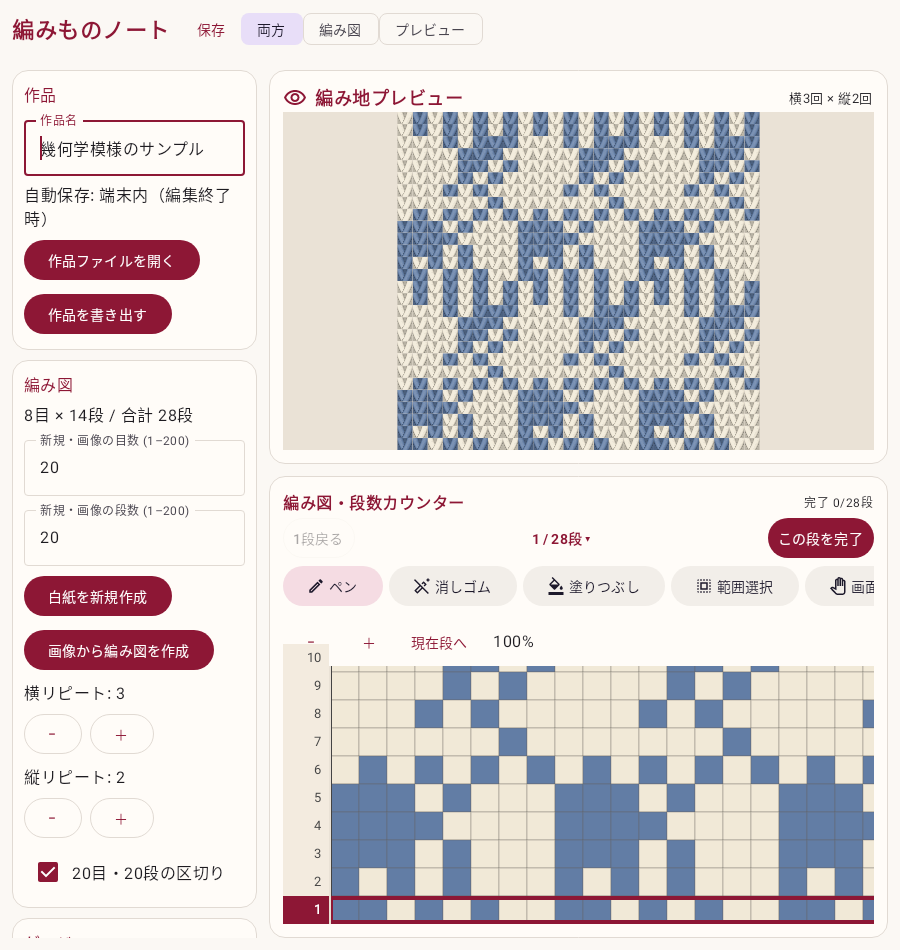
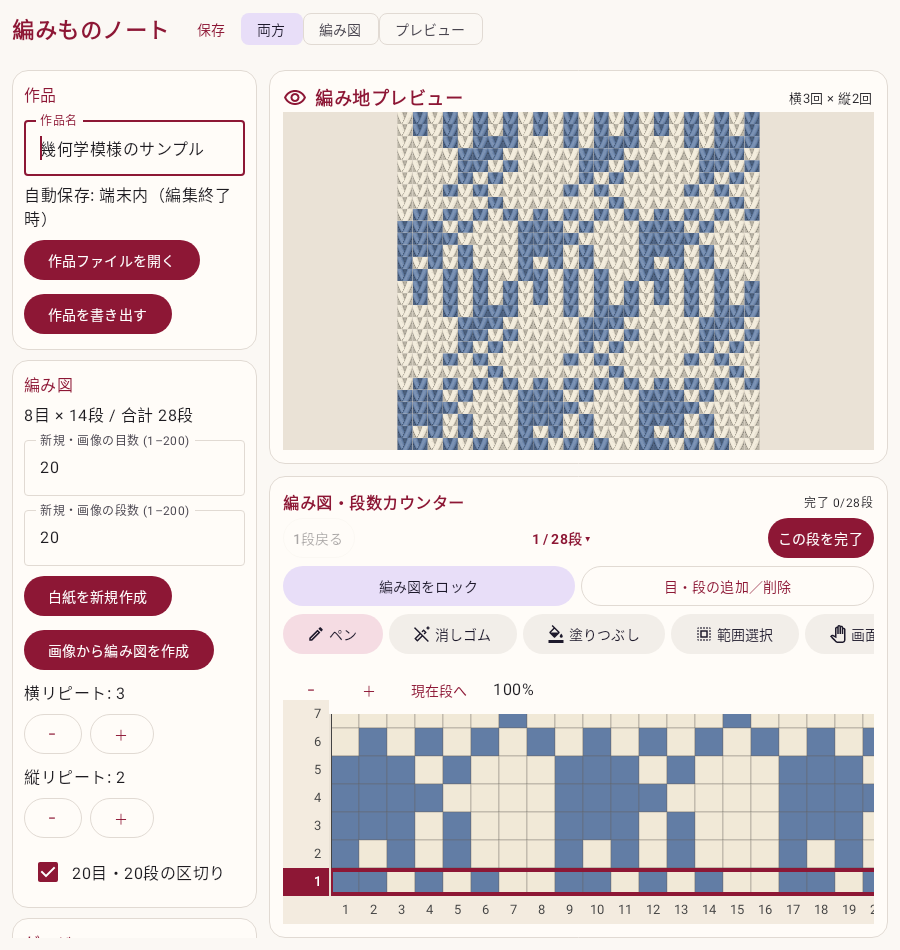
Publish Android 0.3.0 and remove iPhone links from Android landing page

Changed region(s): [[0.3111, 0.58, 0.9956, 0.8853], [0.3111, 0.8853, 0.9956, 0.9768], [0.56, 0.58, 0.7156, 0.6716]]

diff --git a/docs/index.html b/docs/index.html
@@ -1,4 +1,4 @@
-<!doctype html>
+<!doctype html>
 <html lang="ja">
 <head>
   <meta charset="utf-8"><meta name="viewport" content="width=device-width, initial-scale=1">
@@ -20,7 +20,7 @@
 <a class="skip" href="#main">本文へ移動</a>
 <header class="header wrap">
   <a class="brand" href="#" aria-label="編みものノート トップ"><span class="brand-mark" aria-hidden="true">▦</span>編みものノート<span class="brand-dot">.</span></a>
-  <nav aria-label="メインナビゲーション"><a href="iphone/">iPhone版 ↗</a><a href="#features">できること</a><a href="#guide">はじめ方</a><a class="nav-download" href="#download">ダウンロード <span aria-hidden="true">↘</span></a></nav>
+  <nav aria-label="メインナビゲーション"><a href="#features">できること</a><a href="#guide">はじめ方</a><a class="nav-download" href="#download">ダウンロード <span aria-hidden="true">↘</span></a></nav>
 </header>
 <main id="main">
   <section class="hero wrap">
@@ -29,7 +29,7 @@
       <h1>ひと目ずつ、<br>思い描いた<br><span>模様へ。</span></h1>
       <p class="hero-description">色を置いて、編み地を眺めて、また一段。<br>編み図づくりから「いま、何段目？」まで。<br>あなたの編み物に寄り添う、小さな道具です。</p>
       <div class="hero-actions"><a class="button" href="#download">Android版をダウンロード <span aria-hidden="true">↓</span></a><a class="text-link" href="#guide">はじめての方へ <span aria-hidden="true">↗</span></a></div>
-      <p class="fine">無料試用版 v0.2.1 <span>／</span> Android 8.0以上 <span>／</span> アカウント登録不要</p>
+      <p class="fine">無料試用版 v0.3.0 <span>／</span> Android 8.0以上 <span>／</span> アカウント登録不要</p>
     </div>
     <figure class="hero-visual">
       <div class="visual-top"><span>YOUR NEXT PATTERN</span><span>01 / 28</span></div>
@@ -39,6 +39,7 @@
     </figure>
   </section>
   <div class="ribbon"><div class="wrap"><span>つくる楽しさを、ひとつの画面に。</span><span>編み図制作</span><span>編み地プレビュー</span><span>段数カウンター</span></div></div>
+  <section class="section wrap" aria-labelledby="update-title"><p class="eyebrow">NEW · v0.3.0</p><h2 id="update-title">編みながら、目数も変えられる。</h2><p>「目・段の追加／削除」から、指定した段以降の増し目・減らし目や段の挿入・削除ができます。下端の目番号で位置を確かめ、編むときは編み図をロック。ロック中も段数カウンターとメモは使えます。</p><p>追加・削除は「元に戻す」で取り消せます。リピート中の変更は、柄を1枚に展開してから反映します。</p></section>
   <section class="section wrap" id="features">
     <div class="section-heading"><div><p class="eyebrow">MADE FOR YOUR KNITTING TIME</p><h2>編む前も、編んでいる時も。</h2></div><p>紙の編み図とマーカーのように。<br>デジタルならではの使いやすさを添えて。</p></div>
     <div class="feature-grid">
@@ -51,17 +52,17 @@
   <section class="section wrap" id="guide">
     <div class="section-heading"><div><p class="eyebrow">YOUR FIRST THREE STEPS</p><h2>はじめてでも、ひとつずつ。</h2></div><p>スマートフォンだけで始められます。<br>パソコンやケーブルは必要ありません。</p></div>
     <ol class="steps">
-      <li><span class="step-number">1</span><div><h3>Androidで、このページを開く</h3><p>下のダウンロードボタンから「AmimonoNote-0.2.1-debug.apk」を保存します。APKは、Androidにアプリを入れるためのファイルです。</p><p class="step-tip">パソコンで見ている場合は、ページのURLをスマートフォンへ送ってください。</p></div></li>
+      <li><span class="step-number">1</span><div><h3>Androidで、このページを開く</h3><p>下のダウンロードボタンから「AmimonoNote-0.3.0-debug.apk」を保存します。APKは、Androidにアプリを入れるためのファイルです。</p><p class="step-tip">パソコンで見ている場合は、ページのURLをスマートフォンへ送ってください。</p></div></li>
       <li><span class="step-number">2</span><div><h3>保存したファイルを開いて、インストール</h3><p>ブラウザーのダウンロード一覧、または端末の「マイファイル」「Files」からAPKを開きます。許可を求められたら、設定で使用中のブラウザーなどに「この提供元のアプリを許可」を設定し、元の画面でインストールします。</p><p class="step-tip">Google Play外の試用版です。表示される内容を確認して進めてください。項目名は端末により異なります。インストール後は許可を元に戻せます。<a href="https://support.google.com/pixelphone/answer/7391672?hl=ja" target="_blank" rel="noopener noreferrer">Googleの案内 ↗</a></p></div></li>
       <li><span class="step-number">3</span><div><h3>サンプルの模様で、ひと目から</h3><p>「編みものノート」を開くとサンプルが表示されます。色を選んでマスを塗ってみましょう。段を数える時は左端の段番号をタップし、編めたら「この段を完了」。自分の模様は「白紙を新規作成」から作れます。</p><p class="step-tip">サンプルを残したい時は「作品を書き出す」で保存してから編集してください。</p></div></li>
     </ol>
   </section>
   <section id="download" class="download-section wrap">
-    <div class="download-copy"><p class="eyebrow">LET'S CAST ON</p><h2>次のひと目を、<br>ここから。</h2><p>編みものノート Android版</p><p class="download-details">v0.2.1 · 無料試用版（デバッグAPK）<br>Android 8.0以上 · 約16.7 MB · 2026年9月14日更新</p></div>
-    <div class="download-action"><a class="button button-light" href="https://github.com/asm-asm/patterncanvas/releases/download/v0.2.1/AmimonoNote-0.2.1-debug.apk">APKをダウンロード <span aria-hidden="true">↓</span></a><p>GitHubへのログインは不要です。<br>iPhoneは<a href="iphone/" style="color:inherit">専用Web版はこちら ↗</a>。</p><a href="https://github.com/asm-asm/patterncanvas/releases/tag/v0.2.1">更新内容・ファイル情報 ↗</a><div class="save-note">大切な作品は「作品を書き出す」でバックアップを。更新時も、先に書き出しておくと安心です。</div></div>
+    <div class="download-copy"><p class="eyebrow">LET'S CAST ON</p><h2>次のひと目を、<br>ここから。</h2><p>編みものノート Android版</p><p class="download-details">v0.3.0 · 無料試用版（デバッグAPK）<br>Android 8.0以上 · 約16.9 MB · 2026年9月14日更新</p></div>
+    <div class="download-action"><a class="button button-light" href="https://github.com/asm-asm/patterncanvas/releases/download/v0.3.0/AmimonoNote-0.3.0-debug.apk">APKをダウンロード <span aria-hidden="true">↓</span></a><p>GitHubへのログインは不要です。</p><a href="https://github.com/asm-asm/patterncanvas/releases/tag/v0.3.0">更新内容・ファイル情報 ↗</a><div class="save-note">大切な作品は「作品を書き出す」でバックアップを。更新時も、先に書き出しておくと安心です。新版で保存した作品は旧アプリでは開けません。</div></div>
   </section>
   <section class="section wrap faq" id="faq"><div><p class="eyebrow">A FEW THINGS TO KNOW</p><h2>気になること。</h2><p>つまずいた時は、こちらから。</p></div><div class="questions">
-    <details><summary>無料で使えますか？</summary><p>このページのv0.2.1試用版は無料でダウンロードできます。アカウント登録やアプリ内課金はありません。開発途中のため、使い心地や不具合に気づいたらぜひお知らせください。</p></details>
+    <details><summary>無料で使えますか？</summary><p>このページのv0.3.0試用版は無料でダウンロードできます。アカウント登録やアプリ内課金はありません。開発途中のため、使い心地や不具合に気づいたらぜひお知らせください。</p></details>
     <details><summary>インストールできません。</summary><p>Android 8.0以上であること、APKを最後までダウンロードできていること、空き容量を確認してください。ファイルを開いたアプリの「不明なアプリのインストール」が許可されているかも確認します。</p><p>端末の保護機能・管理者設定・開発者の確認によって制限される場合があります。設定変更の意味が分からない場合は無理に進めず、表示されたメッセージと機種名を添えてお問い合わせください。<a href="https://support.google.com/android/answer/17588095?hl=ja" target="_blank" rel="noopener noreferrer">Android公式の案内 ↗</a></p></details>
     <details><summary>作品や画像は、どこに保存されますか？</summary><p>編み図、毛糸、現在段、完了段、メモはアプリ内に端末保存します。画像からの変換も端末で処理し、アプリ独自のサーバーへ送信しません。Androidのバックアップ設定によってOSのバックアップ対象になる場合があります。</p><p>アンインストールや端末のデータ消去で作品が失われることがあるため、「作品を書き出す」から別の場所にも保存してください。この配布サイトには独自のアクセス解析や広告を設置していません。配信にはGitHub Pages / Releasesを利用します。</p></details>
     <details><summary>編み地プレビューは、実物と同じですか？</summary><p>マスの色・配置・リピート数は編み図と対応します。毛糸の質感を付けたV字のイメージ表示です。実際の編み地の寸法、毛糸の太さ、ゲージ、糸の引き加減までは再現しません。</p></details>
@@ -74,3 +75,4 @@
 <script src="downloads.js" defer></script>
 </body>
 </html>
+
